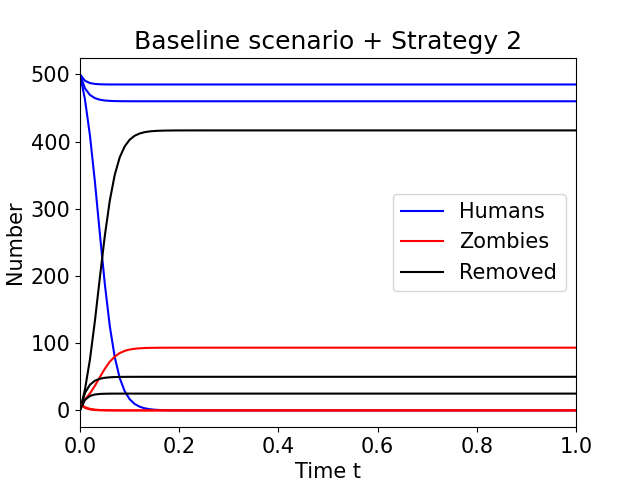
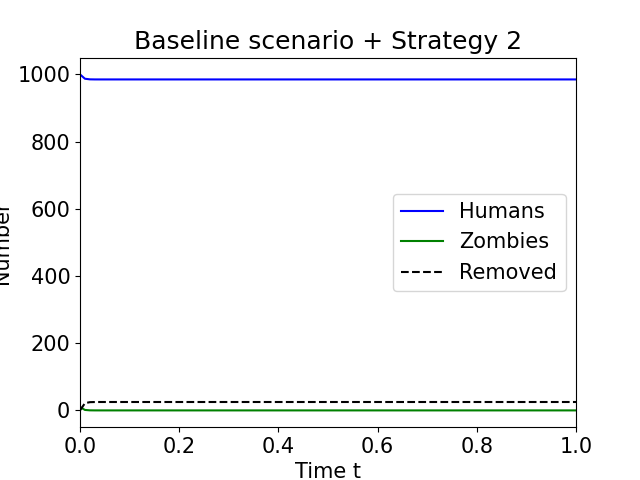
fixed-modelling-now-reasonable-results

diff --git a/Project1/source_files/exercise.py b/Project1/source_files/exercise.py
@@ -1,4 +1,5 @@
 # from collections.abc import Iterator
+from logging import warn, warning
 
 import numpy as np
 # from numpy.random.c_distributions import random_standard_t
@@ -9,7 +10,7 @@ from scipy.integrate import odeint, solve_ivp
 # from scipy.stats import alpha
 
 
-def ode_system(y, t, pa, pb, alpha, beta):
+def ode_system(y, t, alpha, beta):
     """
     – α, dealing with human–zombie encounters that remove zombies. Zombie removal quotient
     – β, dealing with human–zombie encounters that convert humans to zombies. Human infection quotient
@@ -19,13 +20,15 @@ def ode_system(y, t, pa, pb, alpha, beta):
     """
 
     # alpha = 0.5
-    alpha = alpha + pa * alpha
-    # beta = 0.6
-    beta = beta + beta * pb
+    # alpha = alpha*(1 + pa)
+    # # warning(f"Uncertainity in alpha is: {pa}")
+    # # beta = 0.6
+    # beta = beta*(1 + pb)
+    # warning(f"Uncertainity in alpha is: {pb}")
     h_t, z_t, r_t = y
-    # h_t = np.linspace(0, 10, 10)
-    # z_t = np.linspace(0, 10, 10)
-    # r_t = np.linspace(0, 10, 10)
+    # h_t = max(h_t, 0.0)
+    # z_t = max(z_t, 0.0)
+    # r_t = max(r_t, 0.0)
     dh_dt = -beta * h_t * z_t
     dz_dt = (beta * h_t * z_t) - (alpha * h_t * z_t)
     dr_dt = alpha * h_t * z_t
@@ -55,8 +58,8 @@ def zombie(strategy, pa, pb):
     strategy : integer
         mitigation strategy
         0 : no intervention
-        1 : training and arming humans
-        2 : vaccination of humans 
+        1 : training and arming humans -> ##increase alpha
+        2 : vaccination of humans -> ##reduce beta
     pa : real number
         uncertainty in the paramater alpha (= efficiency of humans killing zombies)
     pb : real number
@@ -80,7 +83,7 @@ def zombie(strategy, pa, pb):
     # edit the code here#
     ####################
 
-    initial_humans = 500
+    initial_humans = 1000
     initial_zombies = 10
     t = np.linspace(0, 1, 101)
     ALPHA = 0.5  # efficientcy of killling zombies, increased by trainign in arming by 50%
@@ -97,10 +100,22 @@ def zombie(strategy, pa, pb):
     else:
         alpha = ALPHA
         beta = BETA
+
+    alpha = alpha * (1 + pa)
+    beta = beta * (1 + pb)
+
+
     y_0 = [initial_humans, initial_zombies, 0]
-    x = odeint(ode_system, y_0, t, args=(pa, pb, alpha, beta))
-    h_t = x[:, 0]
-    z_t = x[:, 1]
-    r_t = x[:, 2]
+    x = odeint(
+        ode_system,
+        y_0,
+        t,
+        args=(alpha, beta),
+        rtol = 1e-9,
+        atol=1e-12
+    )
+    # h_t = x[:, 0]
+    # z_t = x[:, 1]
+    # r_t = x[:, 2]
 
     return t, x

diff --git a/Project1/source_files/__main__.py b/Project1/source_files/__main__.py
@@ -8,18 +8,34 @@ def zplot(t,x,title,fname):
   path = ""                        # local user path for storing plots
   fs = 15 # FontSize
   Tend = t[len(t)-1]; 
-  plt.figure("/i,ages")
+  # plt.figure("/i,ages")
+  plt.figure()
   plt.rcParams.update({'font.size': fs})
-  plt.plot(t, x[:,0],'b', t, x[:,1], 'r', t, x[:,2], 'k')
+  plt.plot(t, x[:,0],'b', t, x[:,1], '-g', t, x[:,2], '--k')
   plt.legend(['Humans','Zombies','Removed'],loc = 'best')
   plt.xlabel('Time t')
   plt.ylabel('Number')
   plt.title(title)
   plt.xlim(0.0, Tend)
+  # plt.show()
   plt.savefig(path + fname)
   N = len(t)-1
   # print(f"len(t): {len(t)}: {N}")
   print('\n', title,'\n\t t = ',t[N],'\n\t #Humans = {:.2f}'.format(x[N,0]),'\n\t #Zombies = {:.2f}'.format(x[N,1]),'\n\t #Removed =  {:.2f}'.format(x[N,2]))
+  # print(f"t: {t}")
+
+  # if(any(x[:,0]<1e-9)):
+  #   print(f"Humans negative:")
+  #   print(f"Humans: {x[:, 0]}")
+  #
+  # if (any(x[:, 1] < 1e-9)):
+  #   print(f"Zombines negative:")
+  #   print(f"Zombies: {x[:,1]}")
+  # if (any(x[:, 2] < 1e-9)):
+  #   print(f"Removed negative:")
+  #   print(f"Removed: {x[:,2]}")
+
+
   return
 
 p = 0.25 # uncertainty of parameters alpha and beta in percent
@@ -28,14 +44,14 @@ t, x = zombie(0,0,0)
 print(f"t in __main__.py is: {t[99]}")
 zplot(t,x,"Baseline scenario without intervention","pic_1.png")
 
-t, x = zombie(1,0,0)          
+t, x = zombie(1,0,0)
 zplot(t,x,"Baseline scenario + Strategy 1","pic_2.png")
-
+#
 t, x = zombie(2,0,0)
 zplot(t,x,"Baseline scenario + Strategy 2","pic_3.png")
-
-t, x = zombie(1,-p,p)          
+#
+t, x = zombie(1,-p,p)
 zplot(t,x,"Worst case scenario + Strategy 1","pic_4.png")
 
-t, x = zombie(2,-p,p)          
+t, x = zombie(2,-p,p)
 zplot(t,x,"Worst case scenario + Strategy 2","pic_5.png")
